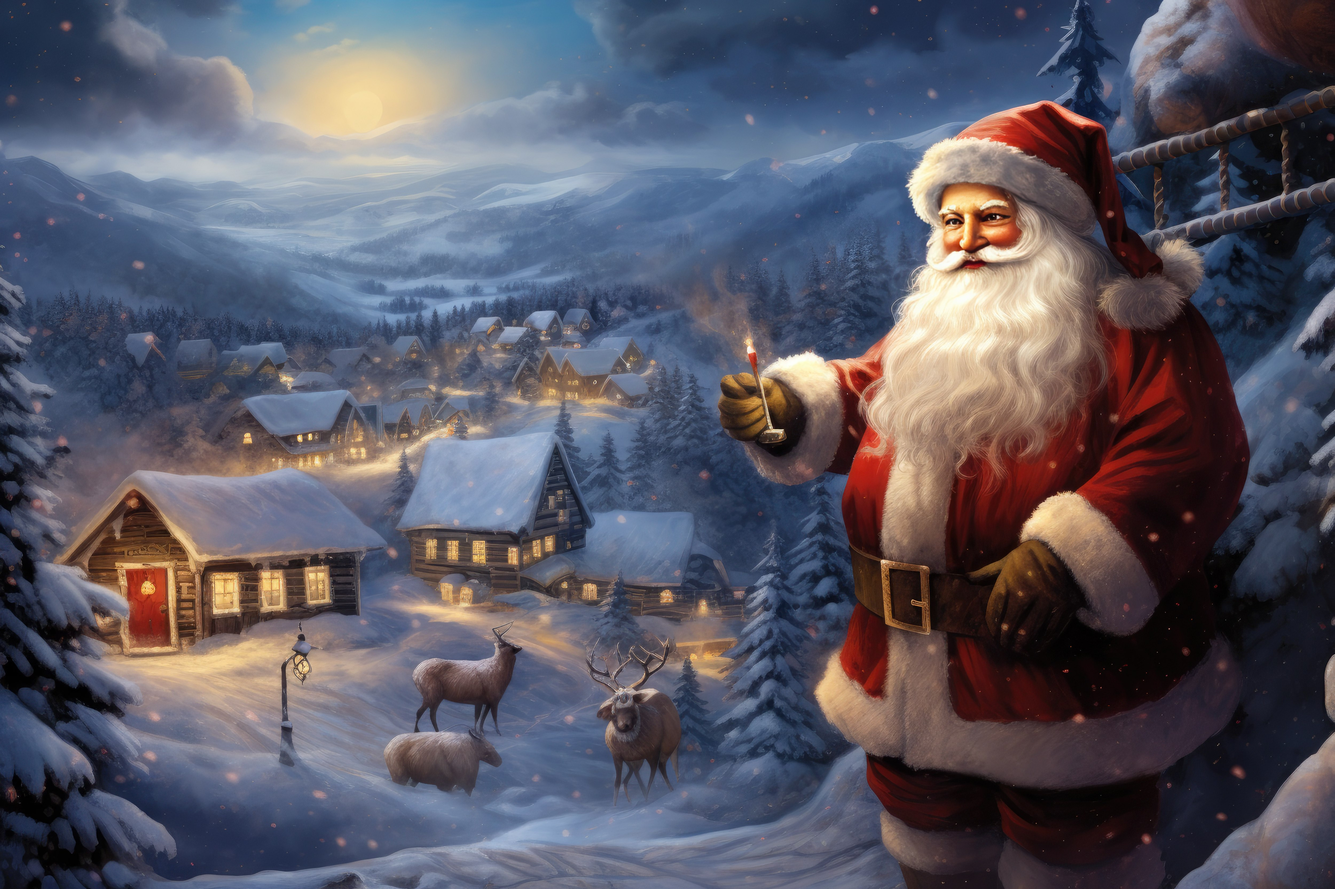
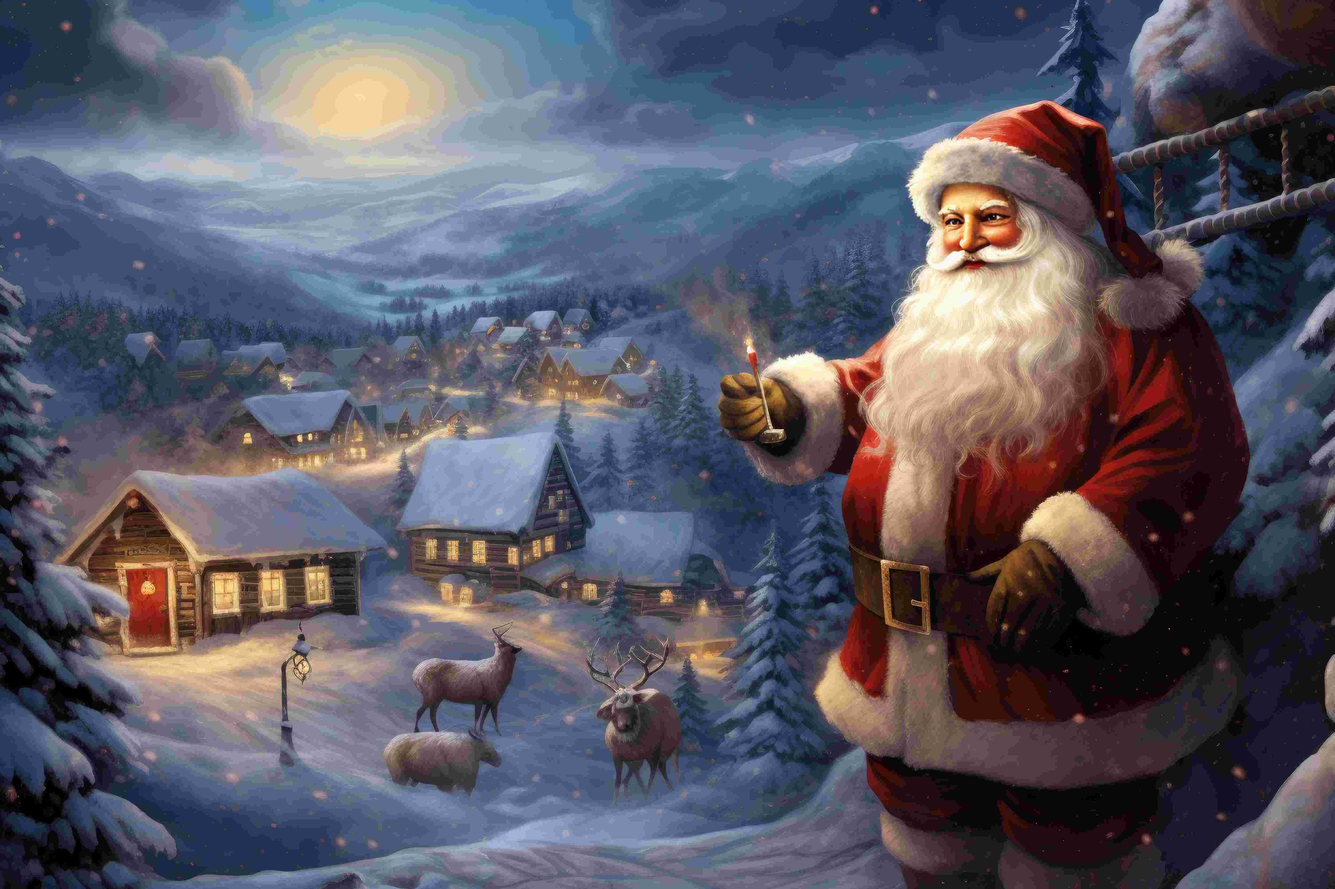
Resize background images for better rendering.

Changed region(s): [[0.312, 0.468, 0.3432, 0.4992]]

diff --git a/Secret-Santa-UI/src/pages/game-status/GameStatus.js b/Secret-Santa-UI/src/pages/game-status/GameStatus.js
@@ -143,11 +143,11 @@ function GameStatus() {
             </div>
           </div>
           <div className='game-action-container'>
-            <button className='game-actions' style={{ width: '252px', filter: (isGameActive && userId === hostId) ? 'none' : 'blur(2px)' }} onClick={endSecretSantaGame} disabled={(isGameActive && userId === hostId)}>
+            <button className='game-actions' style={{ width: '252px', filter: (isGameActive && userId === hostId) ? 'none' : 'blur(2px)' }} onClick={endSecretSantaGame} disabled={(!isGameActive && userId === hostId)}>
               {(isGameActive && userId === hostId) ? <FaStopCircle /> : <LockIcon />}
               End Game
             </button>
-            <button className='game-actions' style={{ width: '252px', filter: (!isGameActive && userId === hostId) ? 'none' : 'blur(2px)' }} onClick={startSecretSantaGame} disabled={(!isGameActive && userId == hostId)}>
+            <button className='game-actions' style={{ width: '252px', filter: (!isGameActive && userId === hostId) ? 'none' : 'blur(2px)' }} onClick={startSecretSantaGame} disabled={(isGameActive && userId == hostId)}>
               {(!isGameActive && userId === hostId) ? <FaPlay /> : <LockIcon />}
               Start Game
             </button>

diff --git a/Secret-Santa-UI/src/pages/auth/login/LoginPage.js b/Secret-Santa-UI/src/pages/auth/login/LoginPage.js
@@ -5,7 +5,6 @@ import { useNavigate } from 'react-router-dom';
 import { loginHandler } from '../../../services/authService.js';
 import { useAlert } from './../../../context/AlertContext.js';
 import { useAuth } from './../../../context/AuthContext';
-import logoutTheme from  '../../../assets/logoutTheme.png';
 import "./LoginPage.css";
 
 const Login = () => {
@@ -44,15 +43,6 @@ const Login = () => {
 
   const handleSignUpClick = () => {
     navigate('/register');
-  };
-
-  const backgroundStyle = {
-    backgroundImage: `url(${logoutTheme})`,
-    backgroundSize: 'cover',
-    backgroundPosition: 'center',
-    backgroundRepeat: 'no-repeat',
-    height: '100vh',
-    width: '100%'
   };
 
   return (

diff --git a/Secret-Santa-UI/src/pages/HomePage.css b/Secret-Santa-UI/src/pages/HomePage.css
@@ -1,20 +1,5 @@
 .home-container {
-    background-image: url('../assets/logoutTheme.png');
-    background-size: cover;
-    background-position: center;
-    height: 100vh;
-    width: 100%;
-    overflow: hidden;
-    margin: 0;
-    display: flex;
-    justify-content: center;
-    align-items: center;
-    text-align: center;
-    transition: 0.5s;
-}
-
-.home-container {
-    background-image: url('../assets/logoutTheme.png');
+    background-image: url('../assets/logoutTheme.jpg');
     background-size: cover;
     background-position: center;
     height: 100vh;

diff --git a/Secret-Santa-UI/src/pages/auth/register/RegisterPage.css b/Secret-Santa-UI/src/pages/auth/register/RegisterPage.css
@@ -1,6 +1,6 @@
 /* Main container */
 .container {
-    background-image: url('../../../assets/logoutTheme.png');
+    background-image: url('../../../assets/logoutTheme.jpg');
     background-size: cover; /* Ensures the image covers the container */
     background-position: center; /* Keeps the image centered */
     height: 100vh; /* Ensures the container takes full viewport height */

diff --git a/Secret-Santa-UI/src/pages/auth/login/LoginPage.css b/Secret-Santa-UI/src/pages/auth/login/LoginPage.css
@@ -1,6 +1,6 @@
 /* Main container */
 .container {
-    background-image: url('../../../assets/logoutTheme.png');
+    background-image: url('../../../assets/logoutTheme.jpg');
     background-size: cover;
     background-position: center;
     height: 100vh;
